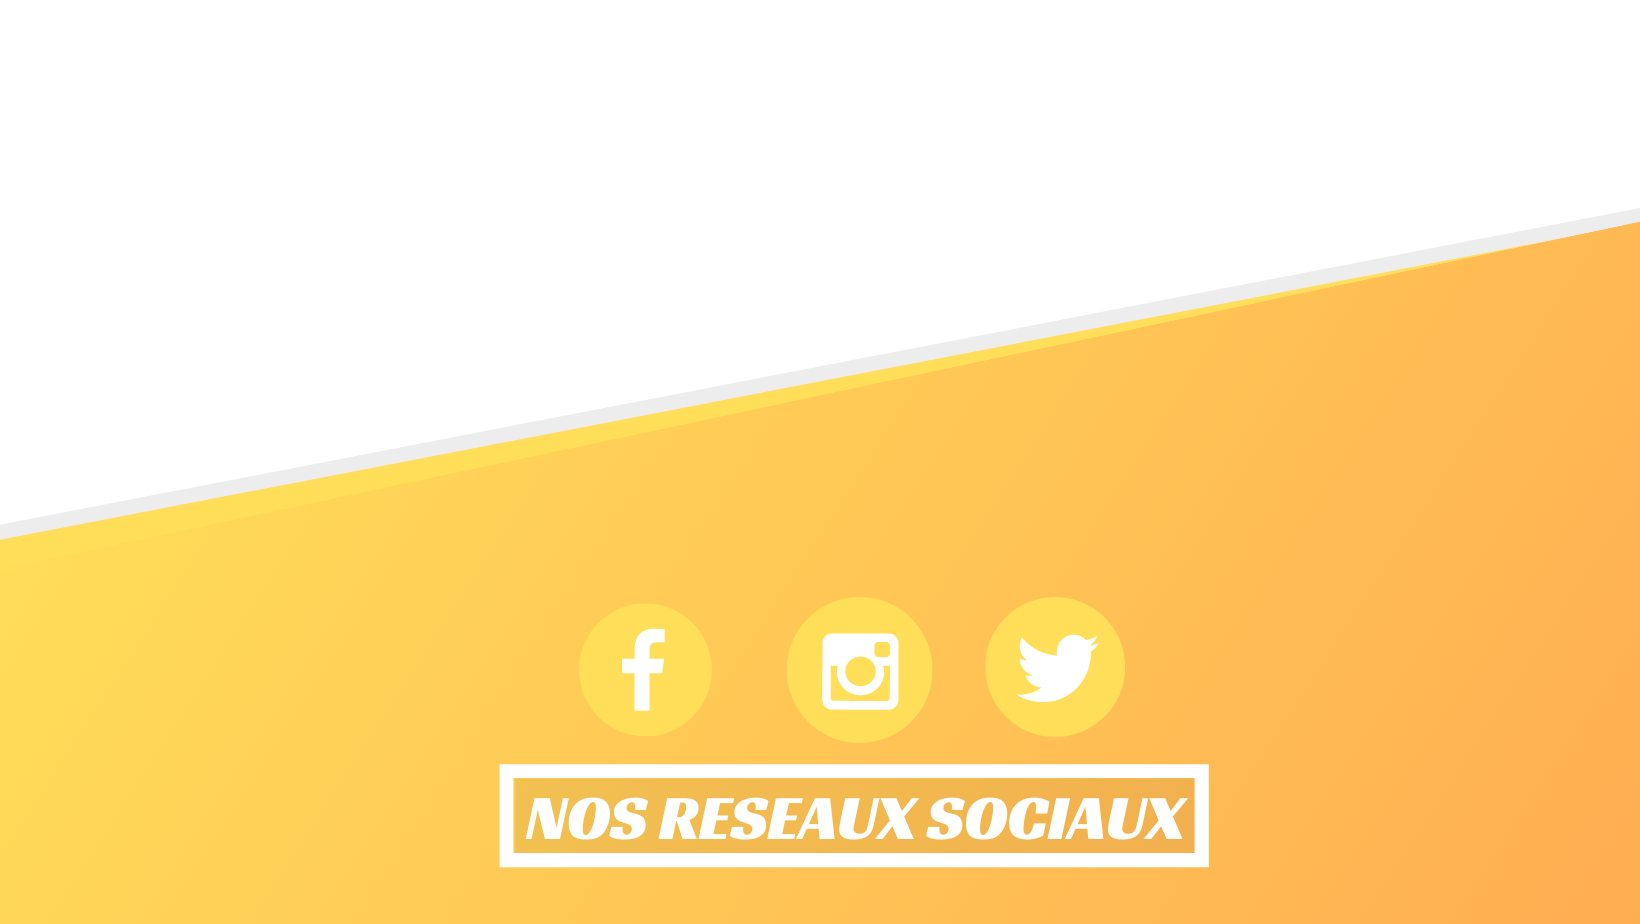
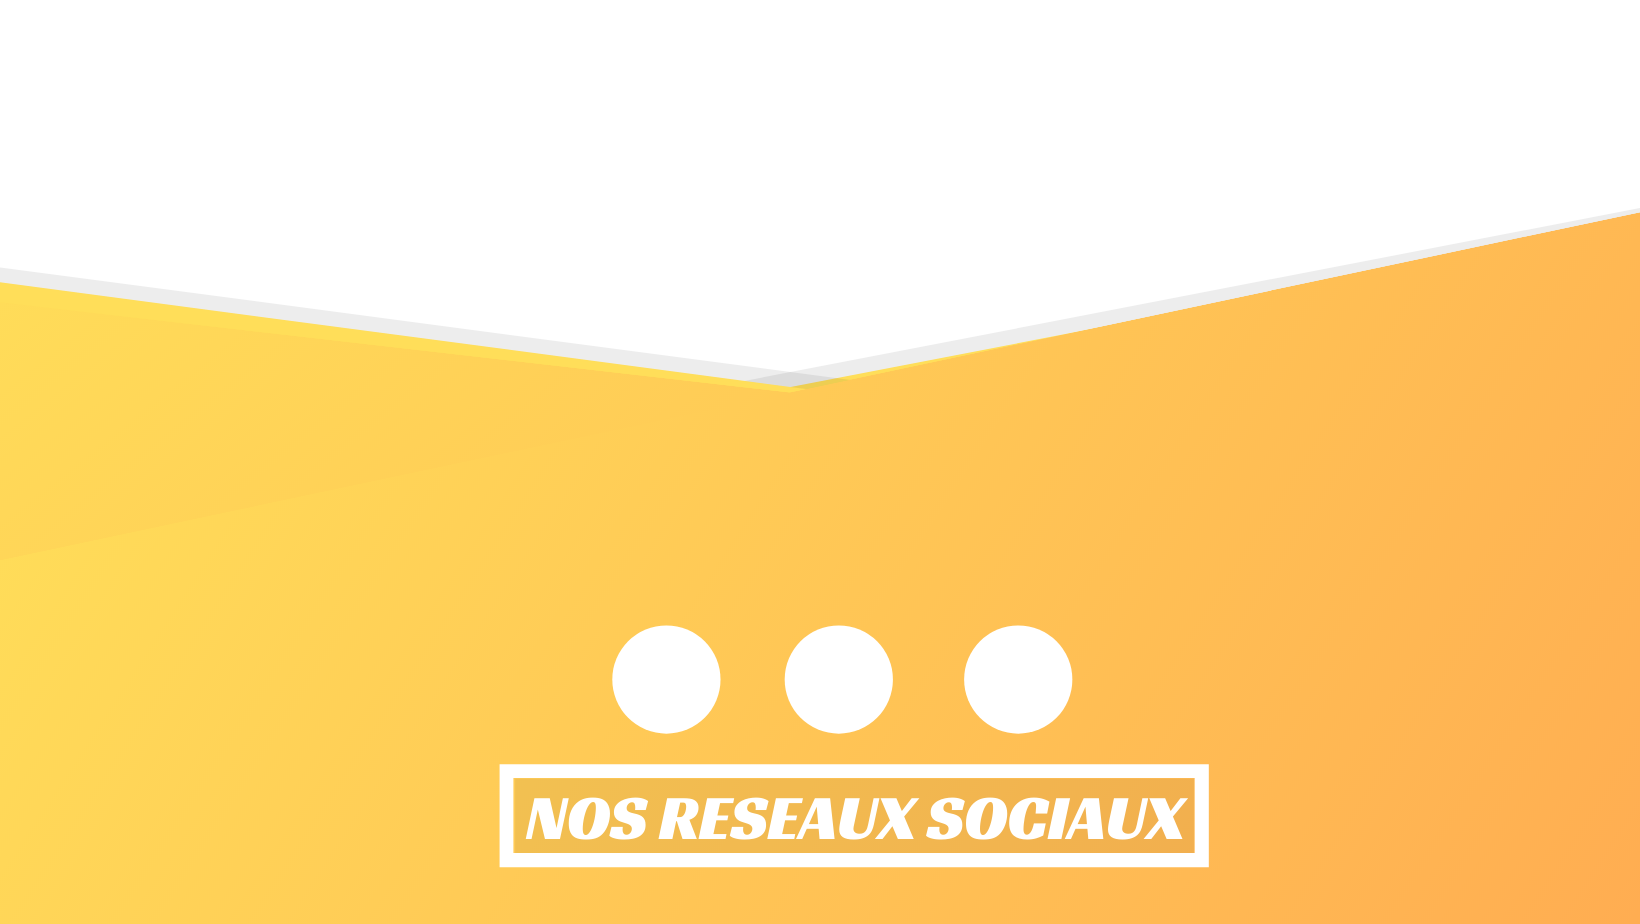
acceuil style

diff --git a/resources/sass/acceuil.scss b/resources/sass/acceuil.scss
@@ -177,6 +177,7 @@ html {
   -webkit-tap-highlight-color: rgba(0, 0, 0, 0);
 }
 
+
 article, aside, figcaption, figure, footer, header, hgroup, main, nav, section {
   display: block;
 }
@@ -6534,6 +6535,40 @@ button.bg-black:focus {
   border-radius: 0.3rem !important;
 }
 
+a.circle
+{
+  background-color: white;
+  border-radius: 100px;
+  padding: 10px;
+  text-decoration: none;
+  
+  &.like
+  {
+    color: green;
+    font-size: 16px;
+
+    &:hover
+    {
+      color: greenyellow;
+      scale: 1.1;
+      transition: 0.5s;
+    }
+  }
+
+  &.dislike
+  {
+    color: red;
+    font-size: 16px;
+
+    &:hover
+    {
+      color: rgb(255, 112, 112);
+      scale: 1.1;
+      transition: 0.5s;
+    }
+  }
+}
+
 .rounded-circle {
   border-radius: 50% !important;
 }
@@ -10395,20 +10430,14 @@ body {
   margin-bottom: 5rem;
 }
 
-.projects-section {
-  padding: 10rem 0;
-}
-.projects-section .featured-text {
-  padding: 2rem;
-}
+
+
 @media (min-width: 992px) {
   .projects-section .featured-text {
-    padding: 0 0 0 2rem;
-    border-left: 0.5rem solid #64a19d;
+    border-left: 0.5rem solid gold;
   }
 }
 .projects-section .project-text {
-  padding: 3rem;
   font-size: 90%;
 }
 @media (min-width: 992px) {
@@ -10416,19 +10445,19 @@ body {
     padding: 5rem;
   }
   .projects-section .project-text hr {
-    border-color: #64a19d;
+    border-color: gold;
     border-width: 0.25rem;
     width: 30%;
   }
 }
 
 .signup-section {
-  padding: 10rem 0;
-  background: linear-gradient(to bottom, rgba(0, 0, 0, 0.1) 0%, rgba(0, 0, 0, 0.5) 75%, #000000 100%), url("../images/acceuil/bg-signup.jpg");
+  padding: 8rem 0;
+  background: linear-gradient(to bottom, rgba(0, 0, 0, 0.1) 0%, rgba(0, 0, 0, 0.5) 75%, #000000 100%), url("../images/Yellow-Banner.png");
   background-position: center;
   background-repeat: no-repeat;
   background-attachment: scroll;
-  background-size: cover;
+  background-size: contain;
 }
 .signup-section .form-inline input {
   box-shadow: 0 0.1875rem 0.1875rem 0 rgba(0, 0, 0, 0.1) !important;

diff --git a/public/css/acceuil.css b/public/css/acceuil.css
@@ -7347,6 +7347,35 @@ button.bg-black:focus {
   border-radius: 0.3rem !important;
 }
 
+a.circle {
+  background-color: white;
+  border-radius: 100px;
+  padding: 10px;
+  text-decoration: none;
+}
+
+a.circle.like {
+  color: green;
+  font-size: 16px;
+}
+
+a.circle.like:hover {
+  color: greenyellow;
+  scale: 1.1;
+  transition: 0.5s;
+}
+
+a.circle.dislike {
+  color: red;
+  font-size: 16px;
+}
+
+a.circle.dislike:hover {
+  color: #ff7070;
+  scale: 1.1;
+  transition: 0.5s;
+}
+
 .rounded-circle {
   border-radius: 50% !important;
 }
@@ -11269,23 +11298,13 @@ body {
   margin-bottom: 5rem;
 }
 
-.projects-section {
-  padding: 10rem 0;
-}
-
-.projects-section .featured-text {
-  padding: 2rem;
-}
-
 @media (min-width: 992px) {
   .projects-section .featured-text {
-    padding: 0 0 0 2rem;
-    border-left: 0.5rem solid #64a19d;
+    border-left: 0.5rem solid gold;
   }
 }
 
 .projects-section .project-text {
-  padding: 3rem;
   font-size: 90%;
 }
 
@@ -11295,7 +11314,7 @@ body {
   }
 
   .projects-section .project-text hr {
-    border-color: #64a19d;
+    border-color: gold;
     border-width: 0.25rem;
     width: 30%;
   }
@@ -11303,7 +11322,7 @@ body {
 
 .signup-section {
   padding: 10rem 0;
-  background: linear-gradient(to bottom, rgba(0, 0, 0, 0.1) 0%, rgba(0, 0, 0, 0.5) 75%, #000000 100%), url(/images/bg-signup.jpg?5ac05903cff7fd9e6034b0f9539da51d);
+  background: linear-gradient(to bottom, rgba(0, 0, 0, 0.1) 0%, rgba(0, 0, 0, 0.5) 75%, #000000 100%), url(/images/Yellow-Banner.png?de3e0125df83b7c4fd9aa58688a59196);
   background-position: center;
   background-repeat: no-repeat;
   background-attachment: scroll;

diff --git a/resources/views/root/acceuil.blade.php b/resources/views/root/acceuil.blade.php
@@ -97,15 +97,15 @@
             </div>
         </section>
         <!-- Projects-->
-        <section class="projects-section bg-light" id="projects">
+        <section class="projects-section bg-light mb-4" id="projects">
             <div class="container">
                 <!-- Featured Project Row-->
                 <div class="row align-items-center no-gutters mb-4 mb-lg-5">
-                    <div class="col-xl-8 col-lg-7"><img class="img-fluid mb-3 mb-lg-0" src="images/acceuil/bg-masthead.jpg" alt="" /></div>
-                    <div class="col-xl-4 col-lg-5">
-                        <div class="featured-text text-center text-lg-left">
-                            <h4>Shoreline</h4>
-                            <p class="text-black-50 mb-0">Grayscale is open source and MIT licensed. This means you can use it for any project - even commercial projects! Download it, customize it, and publish your website!</p>
+                    {{-- <div class="col-xl-8 col-lg-7"><img class="img-fluid mb-3 mb-lg-0" src="images/acceuil/bg-masthead.jpg" alt="" /></div> --}}
+                    <div class="mx-auto">
+                        <div class="featured-text pl-4" style="padding-top: 34px;">
+                            <h4 class="text-center">LA MISSION</h4>
+                            <p class="text-black-50 mb-0">Offrir aux membres de la même commune la possibilité d’interagir productivement et de s’entraider. </p>
                         </div>
                     </div>
                 </div>
@@ -118,7 +118,14 @@
                                 <div class="project-text w-100 my-auto text-center text-lg-left">
                                     <h4 class="text-white">Misty</h4>
                                     <p class="mb-0 text-white-50">An example of where you can put an image of a project, or anything else, along with a description.</p>
-                                    <hr class="d-none d-lg-block mb-0 ml-0" />
+                                    <hr class="d-none d-lg-block mb-4 ml-0" />
+                                    
+                                    <a href="" class="circle like mr-2">  
+                                        <i class="fas fa-thumbs-up"></i>
+                                    </a>
+                                    <a href="" class="circle dislike">  
+                                        <i class="fas fa-thumbs-down"></i>
+                                    </a>
                                 </div>
                             </div>
                         </div>
@@ -142,61 +149,27 @@
             </div>
         </section>
         <!-- Signup-->
-        <section class="signup-section" id="signup">
+        @guest
+        <section class="signup-section mt-4" id="signup">
             <div class="container">
                 <div class="row">
                     <div class="col-md-10 col-lg-8 mx-auto text-center">
-                        <i class="far fa-paper-plane fa-2x mb-2 text-white"></i>
-                        <h2 class="text-white mb-5">Subscribe to receive updates!</h2>
-                        <form class="form-inline d-flex">
-                            <input class="form-control flex-fill mr-0 mr-sm-2 mb-3 mb-sm-0" id="inputEmail" type="email" placeholder="Enter email address..." />
-                            <button class="btn btn-primary mx-auto" type="submit">Subscribe</button>
-                        </form>
+                        
+                        <a class="btn btn-outline-gold" href="#about">JE PARTICIPE</a>
+                       
                     </div>
                 </div>
             </div>
         </section>
+        @endguest
         <!-- Contact-->
-        <section class="contact-section bg-black">
-            <div class="container">
-                <div class="row">
-                    <div class="col-md-4 mb-3 mb-md-0">
-                        <div class="card py-4 h-100">
-                            <div class="card-body text-center">
-                                <i class="fas fa-map-marked-alt text-primary mb-2"></i>
-                                <h4 class="text-uppercase m-0">Address</h4>
-                                <hr class="my-4" />
-                                <div class="small text-black-50">4923 Market Street, Orlando FL</div>
-                            </div>
-                        </div>
-                    </div>
-                    <div class="col-md-4 mb-3 mb-md-0">
-                        <div class="card py-4 h-100">
-                            <div class="card-body text-center">
-                                <i class="fas fa-envelope text-primary mb-2"></i>
-                                <h4 class="text-uppercase m-0">Email</h4>
-                                <hr class="my-4" />
-                                <div class="small text-black-50"><a href="#!">hello@yourdomain.com</a></div>
-                            </div>
-                        </div>
-                    </div>
-                    <div class="col-md-4 mb-3 mb-md-0">
-                        <div class="card py-4 h-100">
-                            <div class="card-body text-center">
-                                <i class="fas fa-mobile-alt text-primary mb-2"></i>
-                                <h4 class="text-uppercase m-0">Phone</h4>
-                                <hr class="my-4" />
-                                <div class="small text-black-50">+1 (555) 902-8832</div>
-                            </div>
-                        </div>
-                    </div>
-                </div>
-                <div class="social d-flex justify-content-center">
-                    <a class="mx-2" href="#!"><i class="fab fa-twitter"></i></a>
-                    <a class="mx-2" href="#!"><i class="fab fa-facebook-f"></i></a>
-                    <a class="mx-2" href="#!"><i class="fab fa-github"></i></a>
-                </div>
-            </div>
+        <section style="min-height: 50rem;
+        background: linear-gradient(to bottom, rgb(255 255 255) 0%, rgb(0 0 0 / 18%) 75%, #000000b0 100%), url(/images/foot.png?c5e51e1…);
+        background-size: cover;"> 
+         
+          <a class="fbbut"href=""><i class="fab fa-facebook"></i></a> 
+          <a class="instbut"href=""><i class="fab fa-instagram"></i></a> 
+          <a class="twittbut"href=""><i class="fab fa-twitter"></i></a> 
         </section>
         <!-- Footer-->
         <footer class="footer bg-black small text-center text-white-50"><div class="container">Copyright © Your Website 2020</div></footer>
